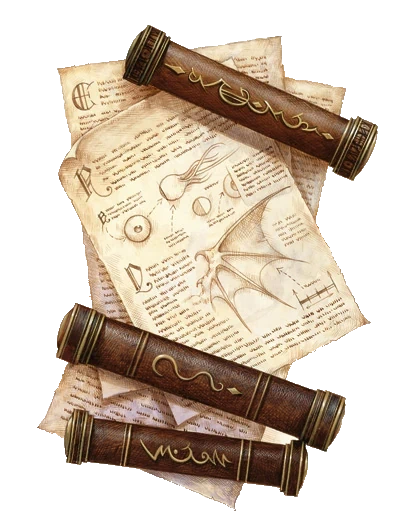
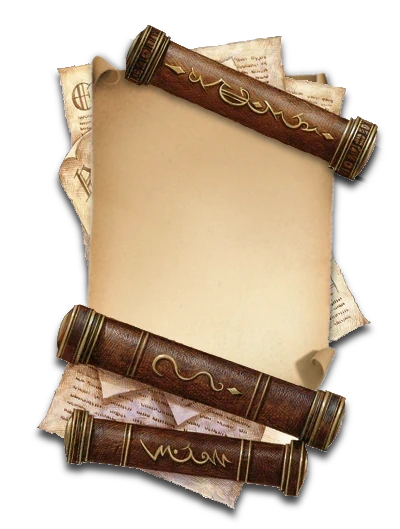
Quartz sync: Jun 26, 2024, 12:03 AM

diff --git a/quartz/components/SideFooter.tsx b/quartz/components/SideFooter.tsx
@@ -17,7 +17,7 @@ export default ((opts?: Options) => {
 		<h3>Next Session: Tuesday, June 25 @7:00pm CT</h3>
 
 		<h4 style="text-align: left; width:49%; display: inline-block;">Navigation</h4>
-		<h4 style="text-align: right; width:50%;  display: inline-block;">v0.51.23</h4>
+		<h4 style="text-align: right; width:50%;  display: inline-block;">v0.51.24</h4>
 		
           {Object.entries(linksSide).map(([text, linksSide]) => (
               <br><a href={linksSide}>{text}</a></br>

diff --git a/content/Changelog.md b/content/Changelog.md
@@ -1,3 +1,6 @@
+## 2024-06-26
+-  00h02 · [[Session 11]]
+-  00h00 · [[Memories]]
 ## 2024-06-25
 -  07h55 · [[Investigate Hilda Goldvein's Disappearance]]
 -  07h49 · [[Aurelia]]
@@ -16,7 +19,6 @@
 -  23h06 · [[Allies]]
 -  22h02 · [[Gunnar Goldvein]]
 ## 2024-06-21
--  21h12 · [[Memories]]
 -  21h12 · [[Session 10]]
 -  14h10 · [[Conflicts]]
 ## 2024-06-20
@@ -55,4 +57,3 @@
 -  13h02 · [[History]]
 -  01h09 · [[Athis]]
 -  01h09 · [[Fontia]]
--  01h09 · [[Ettnia]]

diff --git a/content/World/Memories/Session 11.md b/content/World/Memories/Session 11.md
@@ -1,0 +1,9 @@
+---
+status: in progress
+---
+![[Session 11.webp|left|512]]![[Session 11b.webp|left|512]]![[Session 11c.webp|left|512]]
+
+---------------------------------
+# The Search for Hilda: The Dwarven Tunnels
+
+![[pagebreak.webp|center]]

diff --git a/content/World/Memories/Memories.md b/content/World/Memories/Memories.md
@@ -27,5 +27,6 @@ sticker: emoji//1f4a4
 - [[Session 8]]
 - [[Session 9]]
 - [[Session 10]]
+- [[Session 11]]
 
 %% End Waypoint %%
